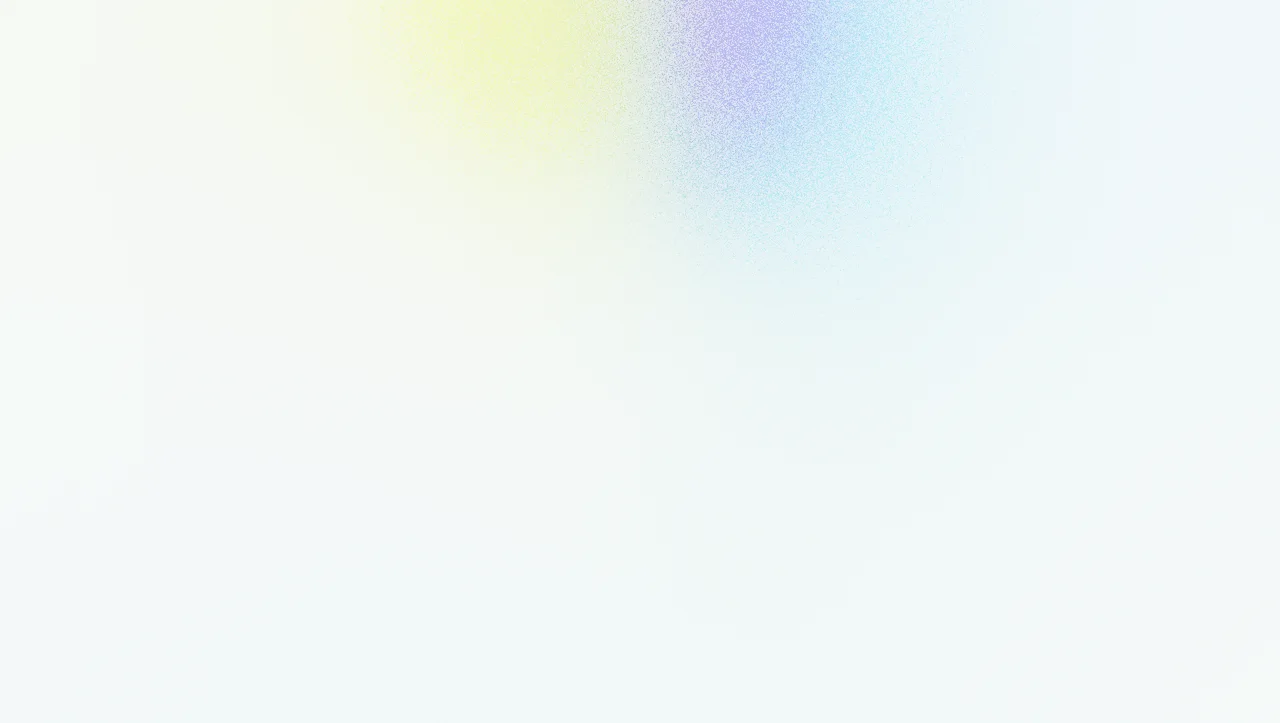
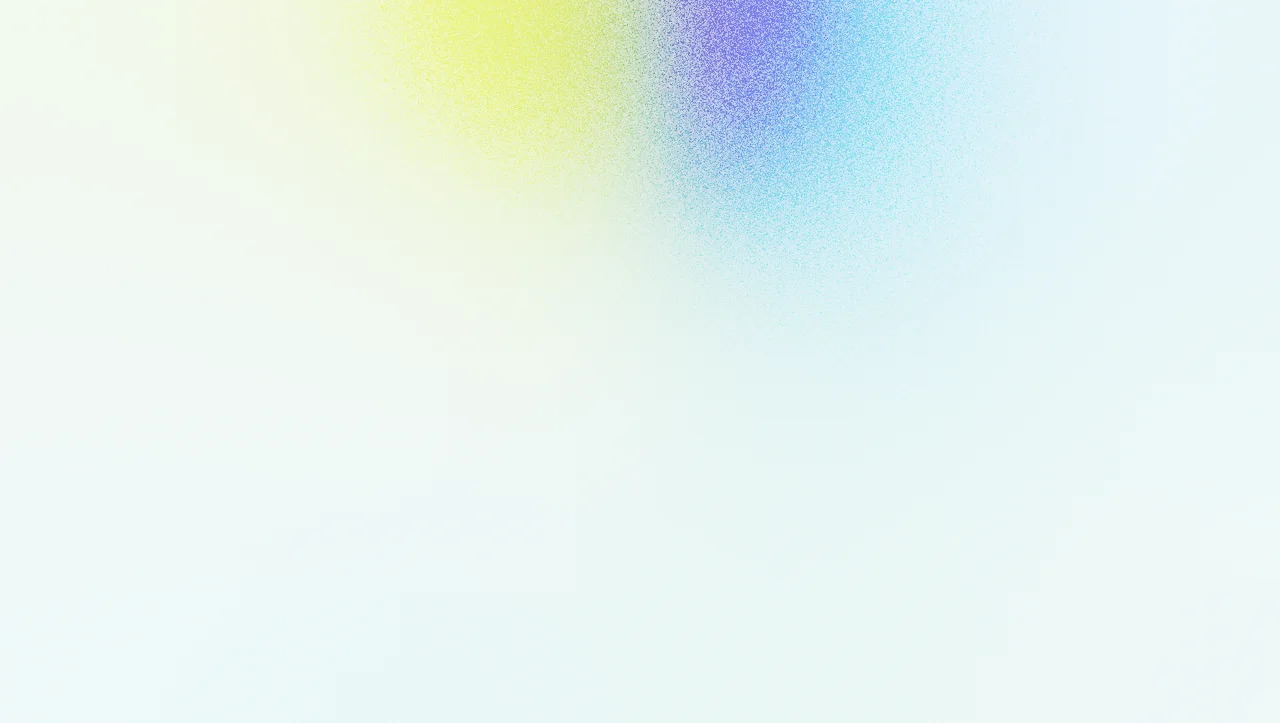
히어로 메시 오퍼시티 25% → 50% (Figma 1083:280398) — 다시 구움

Changed region(s): [[0.25, 0.0, 0.7812, 0.3956]]

diff --git a/resources/views/home.blade.php b/resources/views/home.blade.php
@@ -76,7 +76,7 @@
 
     <main id="top">
 
-        {{-- ── 히어로 ── 배경 메시는 시안의 freeform 2 를 color-burn 25% 로 미리 구워 넣은 것이다.
+        {{-- ── 히어로 ── 배경 메시는 시안의 freeform 2(1083:280398) 를 color-burn 50% 로 미리 구워 넣은 것이다(처음엔 25% 였다).
              구울 때 배경 #f9f9f9 를 깔았으므로 canvas 위에서만 이음매가 안 보인다. --}}
         <section class="relative flex min-h-dvh flex-col justify-center overflow-hidden">
             <img src="{{ asset('images/intro-mesh.webp') }}"
